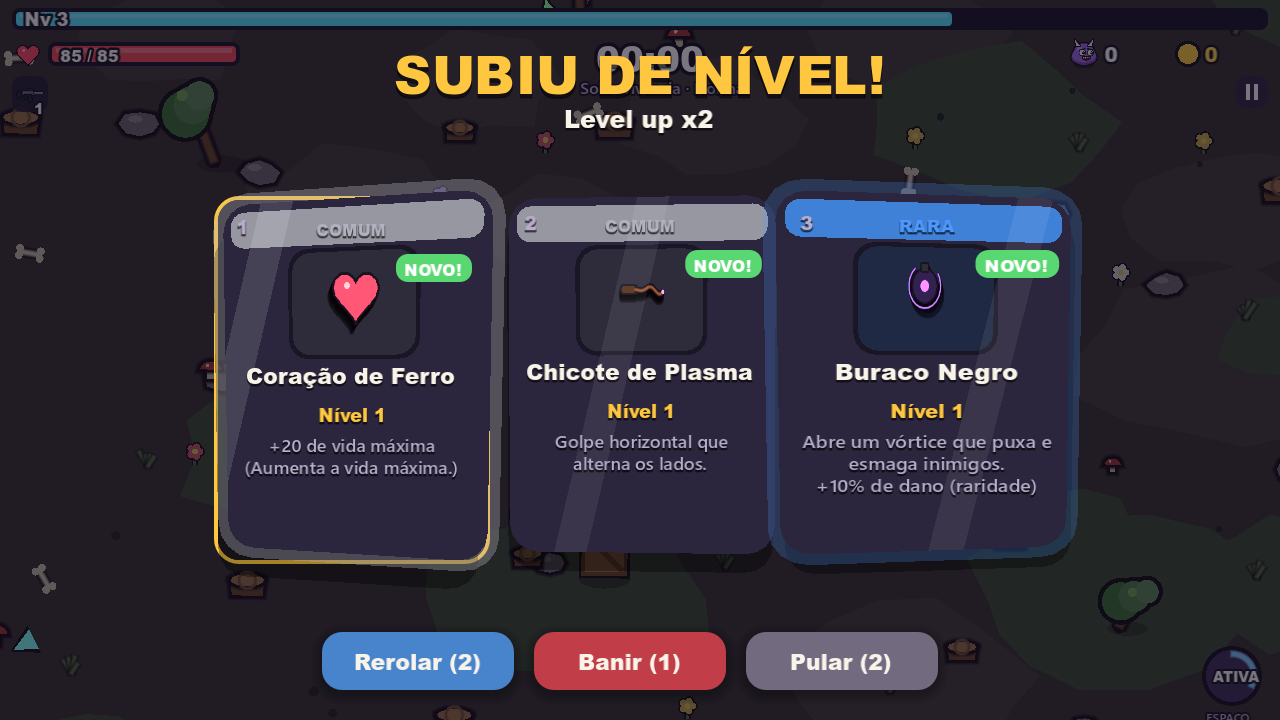
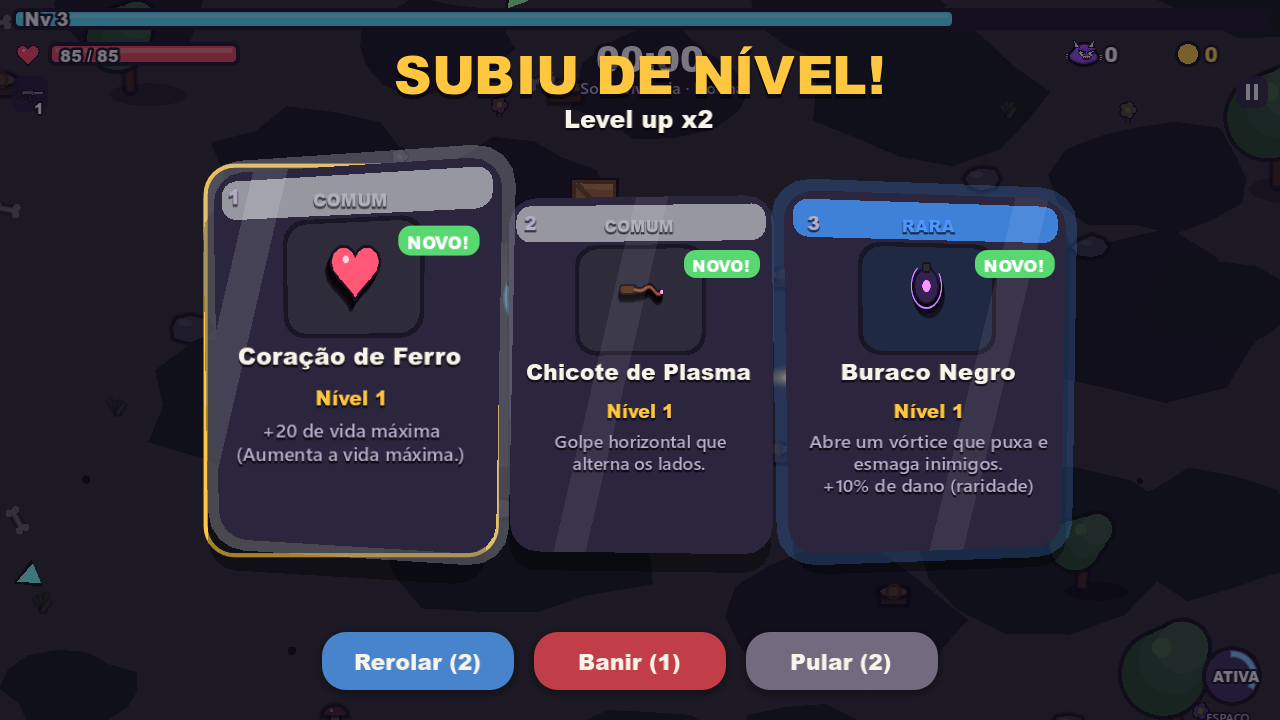
v0.5.0: visual refeito, menu novo, acessórios premium, progressão e opção de Câmera 3D

diff --git a/CHANGELOG.md b/CHANGELOG.md
@@ -1,5 +1,16 @@
 # Novidades
 
+## v0.5.0 — 7 de outubro de 2026
+
+- **Visual refeito**: cenário discreto e heróis, monstros, tiros e gemas em destaque. O herói ganhou contorno claro e aura de poder; os inimigos, contorno grosso.
+- **Personagens mais únicos**: silhuetas e proporções próprias, novas feições e acessórios, mãos segurando a arma.
+- **6 acessórios premium novos**: Kabuto, Viking, Pirata, Dragão, Glacial e Neon.
+- **Menu novo**: vitrine do herói, botões com ícone, moedas em pílulas e transições suaves.
+- **Cartas de level-up** com 4 tipos de entrada; elas levantam quando você passa o mouse.
+- **Progressão**: liga por temporada, Ascensão (prestígio infinito) e contratos que nunca acabam.
+- **Opção Câmera 3D**: o efeito de profundidade ao andar agora pode ser ligado e desligado em Opções e vem desligado.
+- **Avisos** de conquista menores, sem cobrir os botões.
+
 ## v0.2.1 — 7 de outubro de 2026
 
 - **Heróis com personalidade**: olhos diferentes para cada um (fenda, cílios, olhos miúdos, apertados, estrela), caretas variadas e corpos com silhueta própria.
